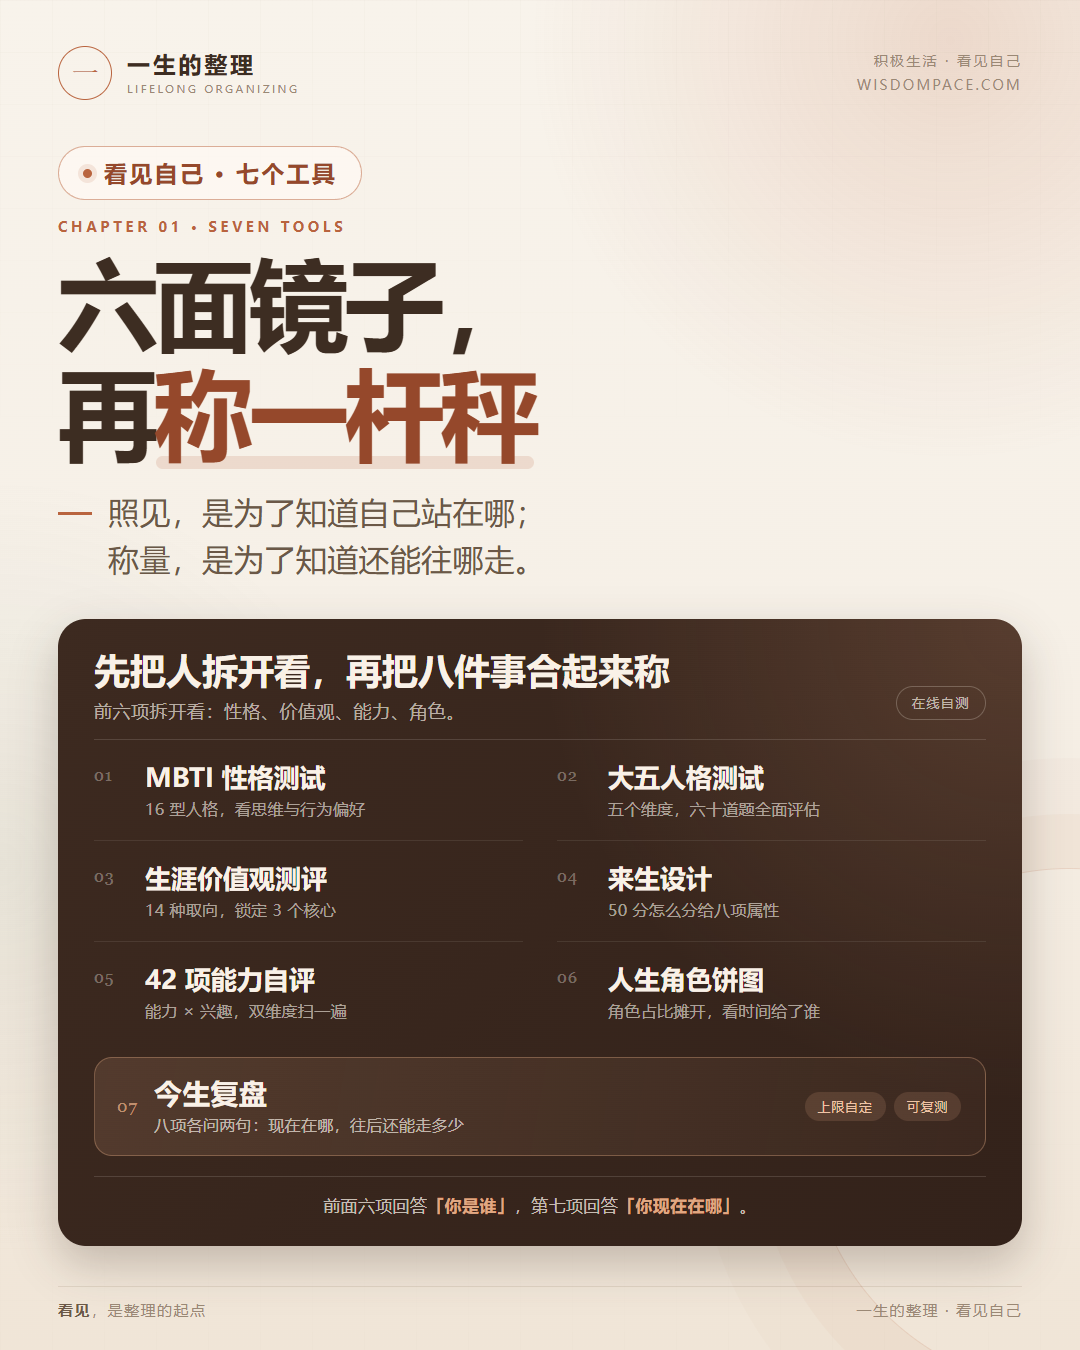
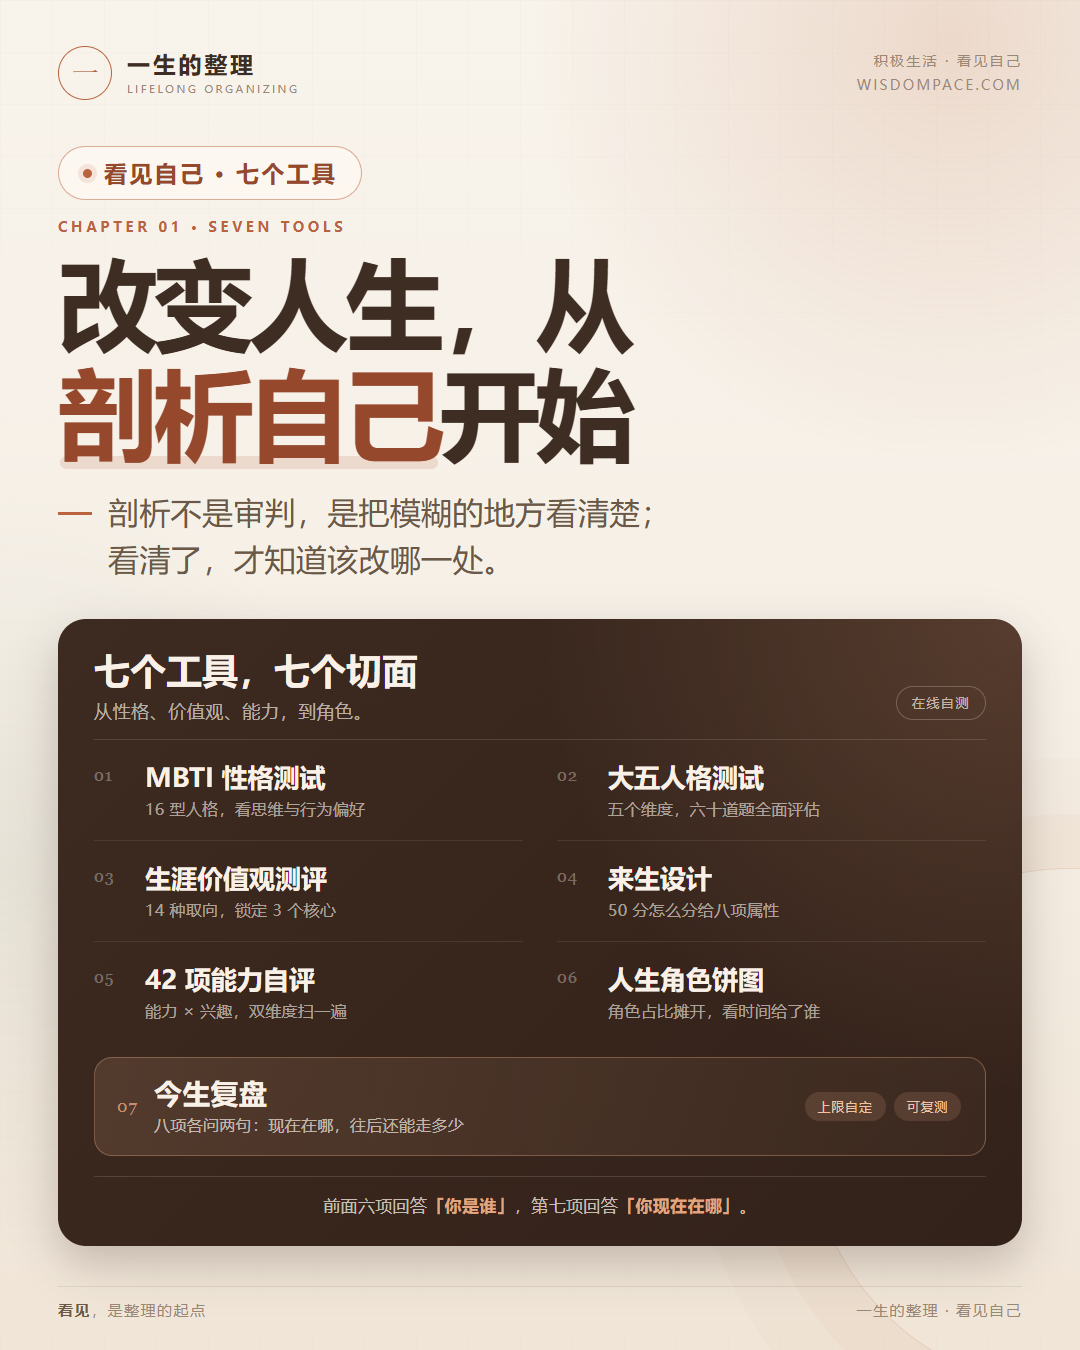
feat(posters): 第一章封面换标题为「改变人生，从剖析自己开始」
- 原「六面镜子，再称一杆秤」物件比喻过硬，改为陈述式因果（为什么值得做）
- 断行取 6/5（改变人生，从 / 剖析自己开始），两行实测均 573px，视觉等宽
- 删掉 slogan 与卡头里残留的「照见/称量」旧结构，改「剖析不是审判」立论 + 七个切面
- 拼音色卡头 h2 改「七个工具，七个切面」，与剖析语义呼应

Changed region(s): [[0.0306, 0.1867, 0.6111, 0.4356], [0.0917, 0.4667, 0.6111, 0.56]]

diff --git a/posters/chapter1-cover.html b/posters/chapter1-cover.html
@@ -340,15 +340,15 @@
     <section class="hero">
       <div class="tool-chip"><span class="dot"></span>看见自己 · 七个工具</div>
       <p class="kicker">CHAPTER 01 · SEVEN TOOLS</p>
-      <h1>六面镜子，<br />再<span class="accent">称一杆秤</span></h1>
-      <p class="slogan">照见，是为了知道自己站在哪；<br />称量，是为了知道还能往哪走。</p>
+      <h1>改变人生，从<br /><span class="accent">剖析自己</span>开始</h1>
+      <p class="slogan">剖析不是审判，是把模糊的地方看清楚；<br />看清了，才知道该改哪一处。</p>
     </section>
 
     <section class="stage-card">
       <div class="stage-head">
         <div>
-          <h2>先把人拆开看，再把八件事合起来称</h2>
-          <p>前六项拆开看：性格、价值观、能力、角色。</p>
+          <h2>七个工具，七个切面</h2>
+          <p>从性格、价值观、能力，到角色。</p>
         </div>
         <span class="stage-tag">在线自测</span>
       </div>
